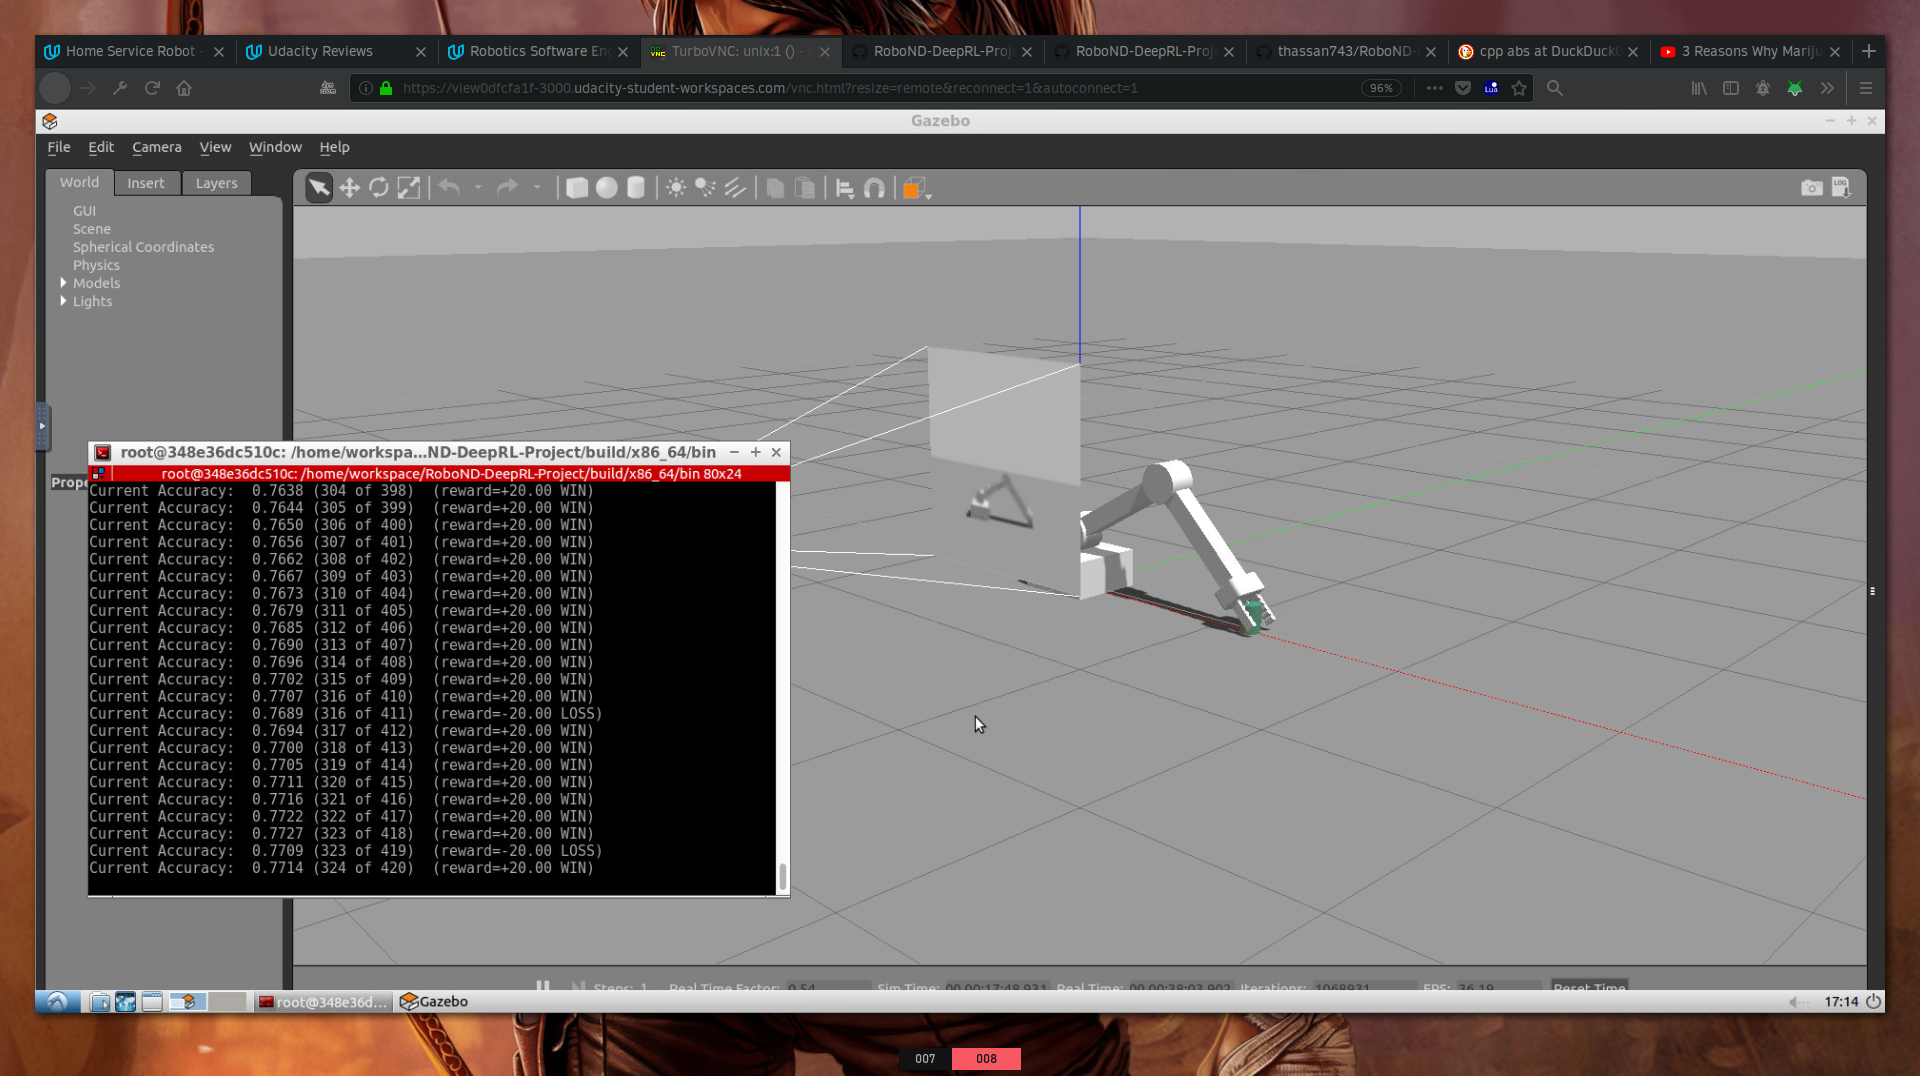
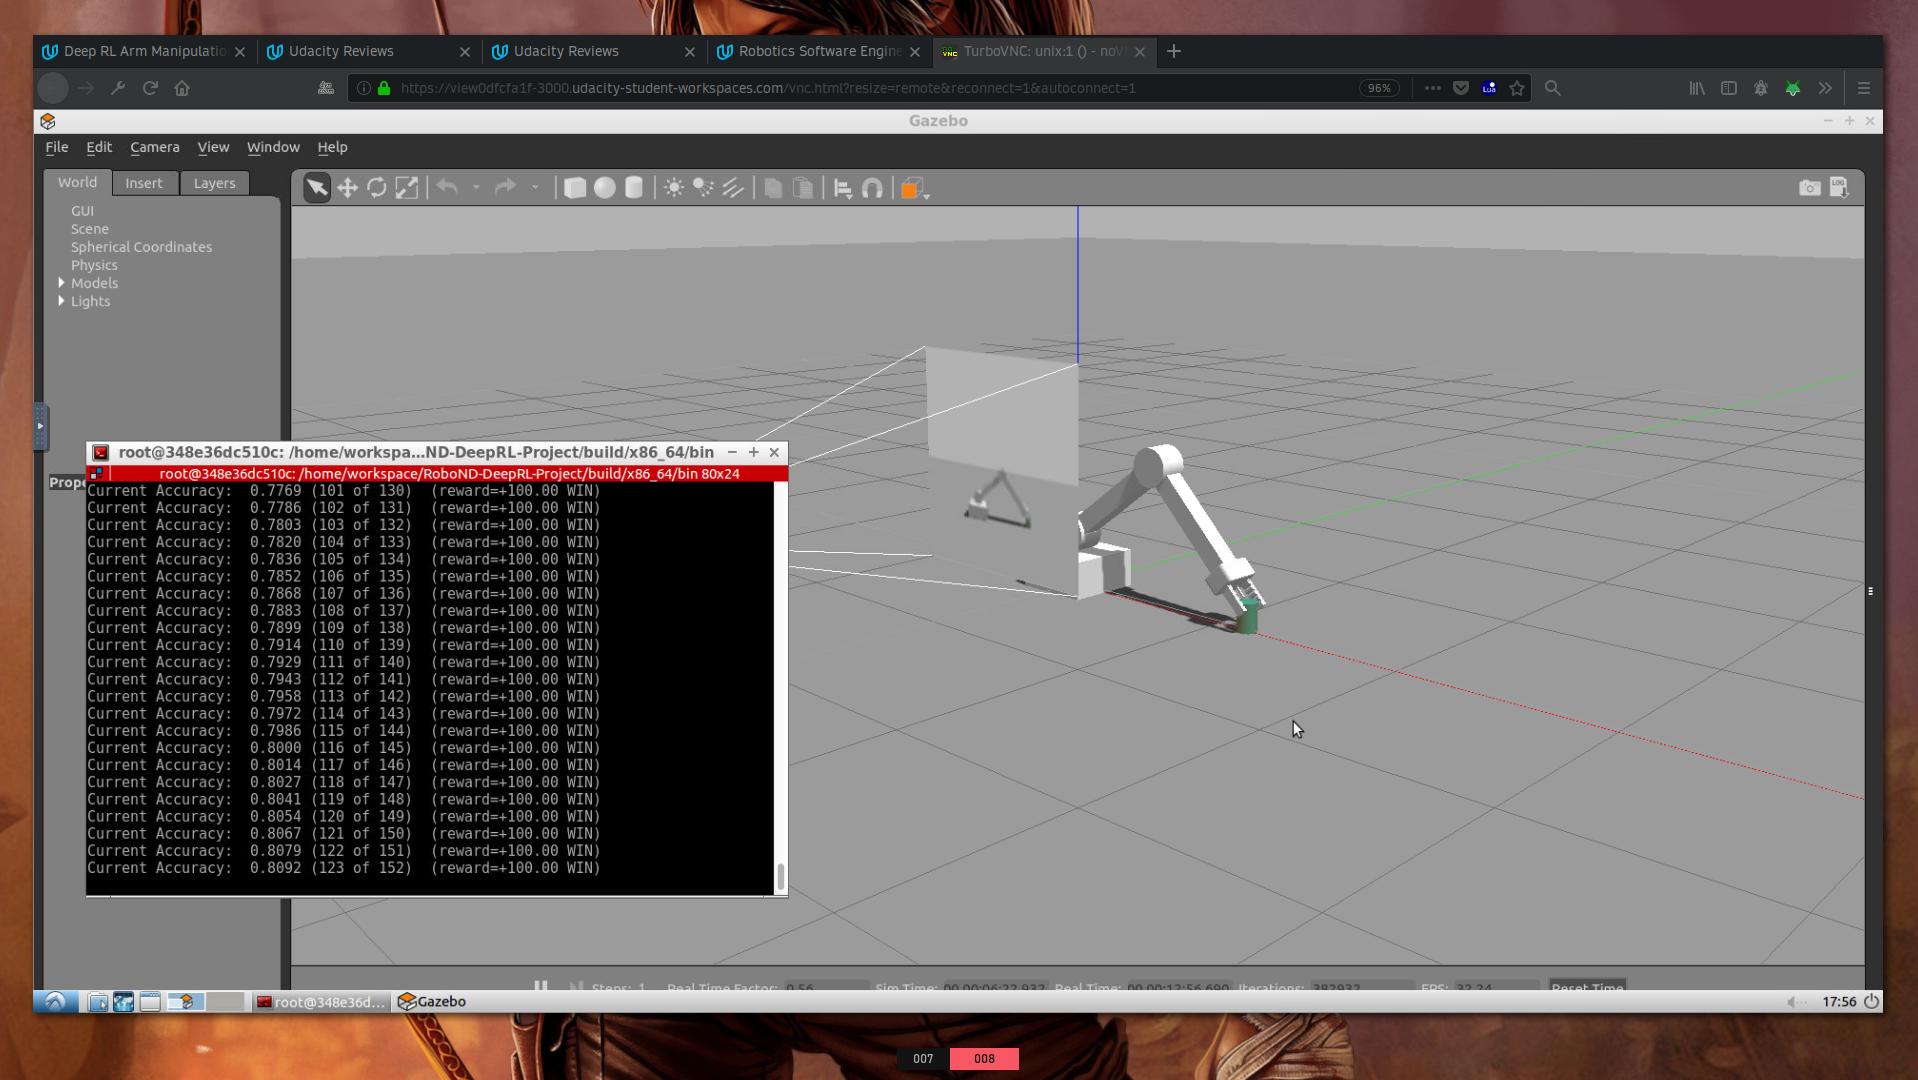
final

diff --git a/gazebo/PropPlugin.cpp b/gazebo/PropPlugin.cpp
@@ -12,33 +12,34 @@
 
 // Turn on velocity based control
 #define VELOCITY_CONTROL false
-#define VELOCITY_MIN -0.1f
-#define VELOCITY_MAX  0.1f
+#define VELOCITY_MIN -0.2f
+#define VELOCITY_MAX  0.2f
 
 // Define DQN API Settings
 #define INPUT_CHANNELS 3
 #define ALLOW_RANDOM true
 #define DEBUG_DQN false
 #define GAMMA 0.9f
-#define EPS_START 0.9f
-#define EPS_END 0.01f
+#define EPS_START 0.7f
+#define EPS_END 0.02f
 #define EPS_DECAY 200
 
-
-//TODO - Tune the following hyperparameters
+// Define Learning Hyperparameters
 #define INPUT_WIDTH   64
 #define INPUT_HEIGHT  64
-#define OPTIMIZER "RMSprop"
-#define LEARNING_RATE 0.01f
+#define OPTIMIZER "Adam"
+#define LEARNING_RATE 0.1f
 #define REPLAY_MEMORY 10000
 #define BATCH_SIZE 256
 #define USE_LSTM true
 #define LSTM_SIZE 256
 
-
-// TODO - Define Reward Parameters
-#define REWARD_WIN  0.1f
-#define REWARD_LOSS -0.5f
+// Define Reward Parameters
+#define REWARD_WIN  20.0f
+#define REWARD_LOSS -20.0f
+#define INTERIM_REWARD 4.0f
+#define INTERIM_OFFSET 0.3f
+#define ALPHA 0.4f
 
 // Define Object Names
 #define WORLD_NAME "arm_world"
@@ -59,6 +60,9 @@
 // Lock base rotation DOF (Add dof in header file if off)
 #define LOCKBASE true
 
+// Define Gazebo topic names
+#define CAMERA_TOPIC "/gazebo/arm_world/camera/link/camera/image"
+#define COLLISION_TOPIC "/gazebo/arm_world/tube/tube_link/my_contact"
 
 namespace gazebo
 {
@@ -121,14 +125,14 @@ void ArmPlugin::Load(physics::ModelPtr _parent, sdf::ElementPtr /*_sdf*/)
 	// Create our node for camera communication
 	cameraNode->Init();
 	
-	// TODO - Subscribe to camera topic
-    cameraSub = cameraNode->Subscribe("/gazebo/arm_world/camera/link/camera/image", &gazebo::ArmPlugin::onCameraMsg, this);
+	// Subscribe to camera topic
+	cameraSub = cameraNode->Subscribe(CAMERA_TOPIC, &ArmPlugin::onCameraMsg, this);
 
 	// Create our node for collision detection
 	collisionNode->Init();
-		
-	// TODO - Subscribe to prop collision topic
-	collisionSub = collisionNode->Subscribe("/gazebo/arm_world/tube/tube_link/my_contact", &gazebo::ArmPlugin::onCollisionMsg, this);
+	
+	// Subscribe to prop collision topic
+	collisionSub = collisionNode->Subscribe(COLLISION_TOPIC, &ArmPlugin::onCollisionMsg, this);
 
 	// Listen to the update event. This event is broadcast every simulation iteration.
 	this->updateConnection = event::Events::ConnectWorldUpdateBegin(boost::bind(&ArmPlugin::OnUpdate, this, _1));
@@ -141,13 +145,12 @@ bool ArmPlugin::createAgent()
 	if( agent != NULL )
 		return true;
 
-			
-
-	// TODO - Create DQN Agent
-	agent = dqnAgent::Create(INPUT_WIDTH, INPUT_HEIGHT, INPUT_CHANNELS, INPUT_CHANNELS * 2,
-			OPTIMIZER, LEARNING_RATE, REPLAY_MEMORY, BATCH_SIZE,
-			GAMMA, EPS_START, EPS_END, EPS_DECAY,
-			USE_LSTM, LSTM_SIZE, ALLOW_RANDOM, DEBUG_DQN);
+	// Create DQN agent
+	agent = dqnAgent::Create(INPUT_WIDTH, INPUT_HEIGHT, 
+                   INPUT_CHANNELS, DOF * 2, OPTIMIZER, 
+                   LEARNING_RATE, REPLAY_MEMORY, BATCH_SIZE, 
+                   GAMMA, EPS_START, EPS_END, EPS_DECAY,
+                   USE_LSTM, LSTM_SIZE, ALLOW_RANDOM, DEBUG_DQN);
 
 	if( !agent )
 	{
@@ -184,6 +187,7 @@ void ArmPlugin::onCameraMsg(ConstImageStampedPtr &_msg)
 	}
 
 	// retrieve image dimensions
+	
 	const int width  = _msg->image().width();
 	const int height = _msg->image().height();
 	const int bpp    = (_msg->image().step() / _msg->image().width()) * 8;	// bits per pixel
@@ -214,7 +218,7 @@ void ArmPlugin::onCameraMsg(ConstImageStampedPtr &_msg)
 	memcpy(inputBuffer[0], _msg->image().data().c_str(), inputBufferSize);
 	newState = true;
 
-	if(DEBUG){printf("camera %i x %i  %i bpp  %i bytes\n", width, height, bpp, size);}
+	//if(DEBUG){printf("camera %i x %i  %i bpp  %i bytes\n", width, height, bpp, size);}
 
 }
 
@@ -232,39 +236,26 @@ void ArmPlugin::onCollisionMsg(ConstContactsPtr &contacts)
 		if( strcmp(contacts->contact(i).collision2().c_str(), COLLISION_FILTER) == 0 )
 			continue;
 
-		if(DEBUG){std::cout << "Collision between[" << contacts->contact(i).collision1()
-			     << "] and [" << contacts->contact(i).collision2() << "]\n";}
+		if(DEBUG)
+		{
+			std::cout << "Collision between [" << contacts->contact(i).collision1() << "] and [" << contacts->contact(i).collision2() << "]\n";
+		}
+		
+		// check is true if tube_collision is first element in collision list
+		const bool collisionWithProp = ( strcmp(contacts->contact(i).collision1().c_str(), COLLISION_ITEM) == 0 );
 
-	
-		// TODO - TASK I
-		/
-		if (strcmp(contacts->contact(i).collision1().c_str(), COLLISION_ITEM) == 0)
-        {
-			rewardHistory = REWARD_WIN * 10;
+		if (collisionWithProp)
+		{
+			// check is true if gripper_link is second element in collision list
+			const bool collisionWithGripper = ( strcmp(contacts->contact(i).collision2().c_str(), COLLISION_POINT) == 0 );
+			
+			// issue reward based on whether the gripper collided with prop
+			rewardHistory = collisionWithGripper ? REWARD_WIN : REWARD_LOSS;
+
 			newReward  = true;
 			endEpisode = true;
 			return;
 		}
-
-		// TODO - TASK II
-		/*
-		if (strcmp(contacts->contact(i).collision1().c_str(), COLLISION_ITEM) == 0)
-		{
-			if (strcmp(contacts->contact(i).collision2().c_str(), COLLISION_POINT) == 0)
-			{
-				rewardHistory = REWARD_WIN * 20;
-			}
-			else
-			{
-				rewardHistory = REWARD_LOSS * 10;
-			}
-
-			newReward  = true;
-			endEpisode = true;
-
-			return;
-		}*/
-		
 	}
 }
 
@@ -297,17 +288,16 @@ bool ArmPlugin::updateAgent()
 		printf("ArmPlugin - agent selected invalid action, %i\n", action);
 		return false;
 	}
-
-	if(DEBUG){printf("ArmPlugin - agent selected action %i\n", action);}
-
-
+	
+	// coefficient of delta value, +1 for even actions, -1 for odd actions
+	const int c = 1 - 2 * (action % 2);
 
 #if VELOCITY_CONTROL
 	// if the action is even, increase the joint position by the delta parameter
 	// if the action is odd,  decrease the joint position by the delta parameter
 
-	// TODO - Increase or decrease the joint velocity based on whether the action is even or odd
-	float velocity = 0.0; // TODO - Set joint velocity based on whether action is even or odd.
+	//Set joint velocity based on whether action is even or odd
+	float velocity = vel[action/2] + c * actionVelDelta;
 
 	if( velocity < VELOCITY_MIN )
 		velocity = VELOCITY_MIN;
@@ -333,18 +323,9 @@ bool ArmPlugin::updateAgent()
 		}
 	}
 #else
-	// TODO - Increase or decrease the joint position based on whether the action is even or odd
-	float joint = 0.0; // TODO - Set joint position based on whether action is even or odd.
 
-	joint = ref[action/2];
-
-    if (action % 2 == 0)
-    {
-        joint+=actionJointDelta;
-    } else
-    {
-        joint-=actionJointDelta;
-    }
+	// Increase or decrease the joint position based on whether the action is even or odd
+	float joint = ref[action/2] + c * actionJointDelta;
 
 	// limit the joint to the specified range
 	if( joint < JOINT_MIN )
@@ -356,6 +337,7 @@ bool ArmPlugin::updateAgent()
 	ref[action/2] = joint;
 
 #endif
+
 	return true;
 }
 
@@ -363,7 +345,7 @@ bool ArmPlugin::updateAgent()
 // update joint reference positions, returns true if positions have been modified
 bool ArmPlugin::updateJoints()
 {
-	if( testAnimation )
+	if( testAnimation )	// test sequence
 	{
 		const float step = (JOINT_MAX - JOINT_MIN) * (float(1.0f) / float(ANIMATION_STEPS));
 
@@ -395,6 +377,7 @@ bool ArmPlugin::updateJoints()
 		// return to base position
 		for( uint32_t n=0; n < DOF; n++ )
 		{
+			
 			if( ref[n] < resetPos[n] )
 				ref[n] += step;
 			else if( ref[n] > resetPos[n] )
@@ -409,6 +392,7 @@ bool ArmPlugin::updateJoints()
 
 		animationStep++;
 #endif
+
 		// reset and loop the animation
 		if( animationStep > ANIMATION_STEPS )
 		{
@@ -430,7 +414,7 @@ bool ArmPlugin::updateJoints()
 		// update the AI agent when new camera frame is ready
 		episodeFrames++;
 
-		if(DEBUG){printf("episode frame = %i\n", episodeFrames);}
+		//if(DEBUG){printf("episode frame = %i\n", episodeFrames);}
 
 		// reset camera ready flag
 		newState = false;
@@ -558,57 +542,42 @@ void ArmPlugin::OnUpdate(const common::UpdateInfo& updateInfo)
 
 		// get the bounding box for the gripper		
 		const math::Box& gripBBox = gripper->GetBoundingBox();
+
+		// define the z value for  ground contact
 		const float groundContact = 0.05f;
 		
-
-		// TODO - set appropriate Reward for robot hitting the ground.
-		bool checkGroundContact = false;
-
-		if (gripBBox.min.z < groundContact)
-		{
-		    checkGroundContact = true;
-		}
+		// define condition for ground contact
+		const bool checkGroundContact = ( gripBBox.min.z <= groundContact || gripBBox.max.z <= groundContact );
 		
-		
-		if(checkGroundContact)
+		// issue reward for robot hitting the ground
+		if( checkGroundContact )
 		{
-			if(DEBUG){printf("GROUND CONTACT, EOE\n");}
+						
+			if(DEBUG){printf("Ground Contact, EOE\n");}
 
-			rewardHistory = REWARD_LOSS * 10;
+			rewardHistory = REWARD_LOSS;
 			newReward     = true;
 			endEpisode    = true;
 		}
 		
-		
-		// TODO - Issue an interim reward based on the distance to the object
+		// issue an interim reward based on the distance to the object 
 		if(!checkGroundContact)
 		{
-			const math::Box& gripBBox = gripper->GetBoundingBox();
-			const math::Box& propBBox = prop->model->GetBoundingBox();
+			const float distGoal = BoxDistance(gripBBox, propBBox); // compute the reward from distance to the goal
 
-			float distGoal = BoxDistance(gripBBox, propBBox); // compute the reward from distance to the goal
-
-			if(DEBUG){printf("distance('%s', '%s') = %f\n", gripper->GetName().c_str(), prop->model->GetName().c_str(), distGoal);}
-
+			//if(DEBUG){printf("distance('%s', '%s') = %f\n", gripper->GetName().c_str(), prop->model->GetName().c_str(), distGoal);}
 			if( episodeFrames > 1 )
 			{
+				// compute delta of distance to the goal
 				const float distDelta  = lastGoalDistance - distGoal;
 
-				const float alpha = 0.9f;
+				// compute moving average 
+				avgGoalDelta  = (avgGoalDelta * ALPHA) + (distDelta * (1.0f - ALPHA));
 
-				// compute the smoothed moving average of the delta of the distance to the goal
-				avgGoalDelta  = (avgGoalDelta * alpha) + (distDelta * (1.0f - alpha));
-				if(DEBUG){printf("distDelta: %f avgGoalDelta %f\n", distDelta, avgGoalDelta);}
+				// linear reward function
+				rewardHistory = INTERIM_REWARD * avgGoalDelta - INTERIM_OFFSET;
 
-				if ( avgGoalDelta > 0 ){
-					rewardHistory = REWARD_WIN;
-				}
-				else
-				{
-					rewardHistory = REWARD_LOSS * distGoal;
-                }
-
-				newReward = true;
+				newReward = true;	
 			}
 
 			lastGoalDistance = distGoal;
@@ -618,7 +587,7 @@ void ArmPlugin::OnUpdate(const common::UpdateInfo& updateInfo)
 	// issue rewards and train DQN
 	if( newReward && agent != NULL )
 	{
-		if(DEBUG){printf("ArmPlugin - issuing reward %f, EOE=%s  %s\n", rewardHistory, endEpisode ? "true" : "false", (rewardHistory > 0.1f) ? "POS+" :(rewardHistory > 0.0f) ? "POS" : (rewardHistory < 0.0f) ? "    NEG" : "       ZERO");}
+		//if(DEBUG){printf("ArmPlugin - issuing reward %f, EOE=%s  %s\n", rewardHistory, endEpisode ? "true" : "false", (rewardHistory > 0.1f) ? "POS+" :(rewardHistory > 0.0f) ? "POS" : (rewardHistory < 0.0f) ? "    NEG" : "       ZERO");}
 		agent->NextReward(rewardHistory, endEpisode);
 
 		// reset reward indicator

diff --git a/gazebo/PropPlugin.1.cpp b/gazebo/PropPlugin.1.cpp
@@ -12,16 +12,16 @@
 
 // Turn on velocity based control
 #define VELOCITY_CONTROL false
-#define VELOCITY_MIN -0.1f
-#define VELOCITY_MAX  0.1f
+#define VELOCITY_MIN -0.2f
+#define VELOCITY_MAX  0.2f
 
 // Define DQN API Settings
 #define INPUT_CHANNELS 3
 #define ALLOW_RANDOM true
 #define DEBUG_DQN false
 #define GAMMA 0.9f
-#define EPS_START 0.9f
-#define EPS_END 0.01f
+#define EPS_START 0.7f
+#define EPS_END 0.02f
 #define EPS_DECAY 200
 
 
@@ -29,9 +29,9 @@
 #define INPUT_WIDTH   64
 #define INPUT_HEIGHT  64
 #define OPTIMIZER "RMSprop"
-#define LEARNING_RATE 0.05f
+#define LEARNING_RATE 0.1f
 #define REPLAY_MEMORY 10000
-#define BATCH_SIZE 64
+#define BATCH_SIZE 256
 #define USE_LSTM true
 #define LSTM_SIZE 256
 
@@ -57,7 +57,7 @@
 #define ANIMATION_STEPS 1000
 
 // Set Debug Mode
-#define DEBUG true
+#define DEBUG false
 
 // Lock base rotation DOF (Add dof in header file if off)
 #define LOCKBASE true
@@ -305,7 +305,7 @@ namespace gazebo
 					}
 			#endif
 				else{
-					rewardHistory = REWARD_LOSS + abs(100 * distGoal);
+					rewardHistory = 10 * REWARD_LOSS + abs(100 * distGoal);
 					newReward  = true;
 					endEpisode = true;
 					return;
